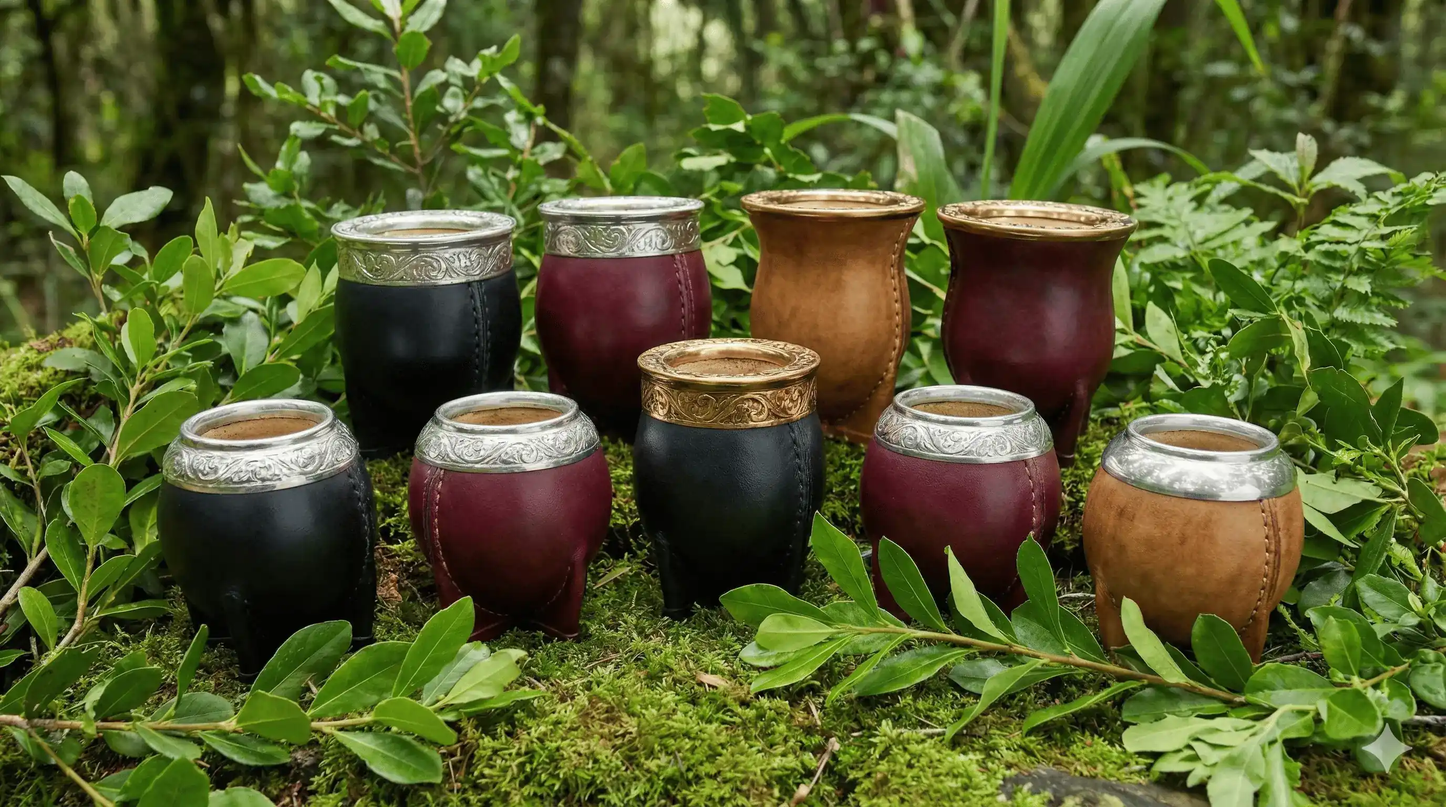
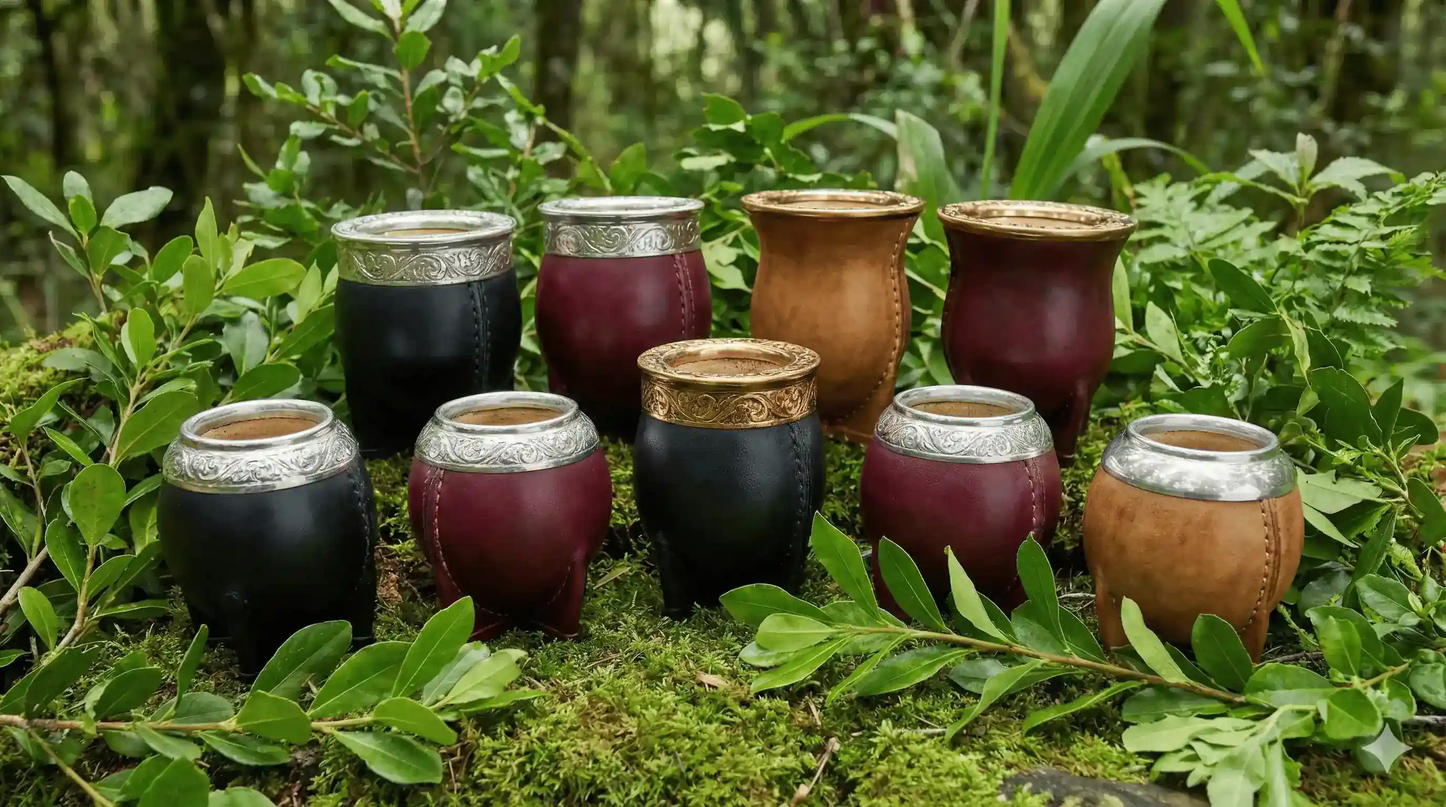
Mejoras de UI en mobile, corrección de carruseles y optimización de carga de imágenes

Changed region(s): [[0.4062, 0.7812, 0.5, 0.8438]]

diff --git a/src/App.jsx b/src/App.jsx
@@ -50,32 +50,46 @@ function App() {
             <h2 className="titulo-principal-seccion">NUESTRO CATÁLOGO</h2>                              
         </div>
 
-        {/* 4. RESULTADOS O CONTENIDO */}
+       {/* 4. RESULTADOS O CONTENIDO */}
         {busqueda !== "" ? (
-          <section className="resultados-busqueda">
-            <p className="subtitulo-seccion" style={{textAlign: 'center'}}>Resultados para: "{busqueda}"</p>
-            <div className="grilla-productos">
-              {productosFiltrados.length > 0 ? (
-                productosFiltrados.map(prod => (
-                  <div key={prod.id} className="tarjeta-mate">
-                      <div className="foto-producto" onClick={() => abrirZoom(prod.imagen)}>
-                          <img src={prod.imagen} alt={prod.nombre} />
-                      </div>
-                      <div className="info-producto">
-                          <h3>{prod.nombre}</h3>
-                          <p className="precio">${prod.precio}</p>
-                      </div>
-                  </div>
-                ))
-              ) : (
-                <p style={{textAlign: 'center', gridColumn: '1/-1', padding: '40px'}}>
-                  No hay coincidencias. ¡Probá con otra palabra! 🧉
-                </p>
-              )}
+          <section className="resultados-busqueda seccion-carrusel">
+            
+            {/* Título con el mismo estilo del carrusel */}
+            <div className="cabecera-titulo" style={{ marginTop: '40px' }}>
+                <h2 className="titulo-linea">Resultados para: "{busqueda}"</h2>
             </div>
+
+            {/* ACÁ ESTÁ LA MAGIA: Usamos las clases de tu carrusel */}
+            <div className="cuerpo-carrusel">
+                <div className="riel-tarjetas">
+                  {productosFiltrados.length > 0 ? (
+                    productosFiltrados.map(prod => (
+                      <div key={prod.id} className="tarjeta-mate">
+                          <div className="foto-producto" onClick={() => abrirZoom(prod.imagen)}>
+                              <img src={prod.imagen} alt={prod.nombre} loading="lazy" />
+                          </div>
+                          <div className="info-producto">
+                              <h3>{prod.nombre}</h3>
+                              <p className="precio">${prod.precio}</p>
+                              {/* Tu botón de Instagram que ya tenías */}
+                              <a href="https://www.instagram.com/matespirru/" target="_blank" rel="noreferrer" className="btn-comprar">
+                                Ver en Instagram
+                              </a>
+                          </div>
+                      </div>
+                    ))
+                  ) : (
+                    <p style={{textAlign: 'center', width: '100%', padding: '40px', fontWeight: 'bold', color: '#1b5e20'}}>
+                      No hay coincidencias. ¡Probá con otra palabra! 🧉
+                    </p>
+                  )}
+                </div>
+            </div>
+
           </section>
         ) : (
           <>
+
             <Categorias />
 
             <div id="mates-seccion">
@@ -89,6 +103,7 @@ function App() {
                 <div className="bloque-separador">
                     <h2 className="titulo-principal-seccion">EQUIPATE COMPLETO</h2>
                 </div>
+                <Carrusel titulo="Bombillas" categoria="bombilla" productos={productos} alHacerClick={abrirZoom} />
                 <Carrusel titulo="Termos" categoria="termo" productos={productos} alHacerClick={abrirZoom} />
                 <Carrusel titulo="Materas" categoria="matera" productos={productos} alHacerClick={abrirZoom} />
                 <Carrusel titulo="Yerbas" categoria="yerba" productos={productos} alHacerClick={abrirZoom} />

diff --git a/src/components/Carrusel.jsx b/src/components/Carrusel.jsx
@@ -8,7 +8,9 @@ function Carrusel({ titulo, productos, categoria, alHacerClick }) {
   const productosDeEstaCategoria = productos.filter(p => p.categoria === categoria);
 
   // 2. Lógica: Mostrar flechas solo si hay más de 3 productos
-  const mostrarFlechas = productosDeEstaCategoria.length > 3;
+  const mostrarFlechas = productosDeEstaCategoria.length > 1;
+
+  const clasePocos = productosDeEstaCategoria.length <= 3 ? "pocos-productos" : "";
 
   const scrollIzquierda = () => {
     if(filaRef.current) {
@@ -26,7 +28,9 @@ function Carrusel({ titulo, productos, categoria, alHacerClick }) {
   if (productosDeEstaCategoria.length === 0) return null;
 
   return (
-    <div className="seccion-carrusel">
+
+    
+    <div className={`seccion-carrusel ${clasePocos}`}>
       
       {/* 1. TÍTULO CENTRADO CON BARRITA (Fuera de los controles) */}
       <div className="cabecera-titulo">

diff --git a/src/components/Portada.jsx b/src/components/Portada.jsx
@@ -15,7 +15,12 @@ function Portada() {
       }}
     >
       <div className="contenido-portada">
-        <img src="./img/logo-matespirru-blanco.webp" alt="Mates Pirru" className="logo-portada" />
+        <img 
+            src="./img/logo-matespirru-blanco.webp" 
+            alt="Mates Pirru" 
+            className="logo-portada" 
+            fetchpriority="high" 
+        />
         {/* En tu Portada.jsx, cambiá el <p> por esto: */}
 <p className="eslogan-pro">Si te acompaña MatesPirru, elegiste bien!</p>
         <a href="#mates-seccion" className="btn-coleccion">
@@ -26,5 +31,4 @@ function Portada() {
   );
 }
 
-// 2. ¡ESTA LÍNEA ES LA QUE TE FALTABA Y ROMPÍA TODO!
 export default Portada;

diff --git a/src/index.css b/src/index.css
@@ -248,6 +248,10 @@ h1, h2, h3, .precio, .logo-gigante {
 .izq { left: -20px; } /* Un poquito afuera a la izquierda */
 .der { right: -20px; } /* Un poquito afuera a la derecha */
 
+.pocos-productos .btn-flecha {
+    display: none !important;
+}
+
 /* =========================================
 6. TARJETAS DE PRODUCTO
 ========================================= */
@@ -636,5 +640,8 @@ BARRA DE BENEFICIOS (FONDO VERDE DE LA WEB)
         flex-direction: column !important;
         align-items: center;
         gap: 40px;
+    }
+    .pocos-productos .btn-flecha {
+        display: flex !important;
     }
 }

diff --git a/src/components/TarjetaMate.jsx b/src/components/TarjetaMate.jsx
@@ -12,7 +12,7 @@ function TarjetaMate({ nombre, precio, imagen, alHacerClick }) {
         onClick={() => alHacerClick(imagen)}
         style={{ position: 'relative', cursor: 'pointer', overflow: 'hidden' }}
       >
-        <img src={imagen} alt={nombre} style={{ width: '100%', display: 'block' }} />
+        <img src={imagen} alt={nombre} loading="lazy" style={{ width: '100%', display: 'block' }} />
 
         {/* 2. EL ÍCONO DE ZOOM (Lupita flotante) */}
         <div style={{
